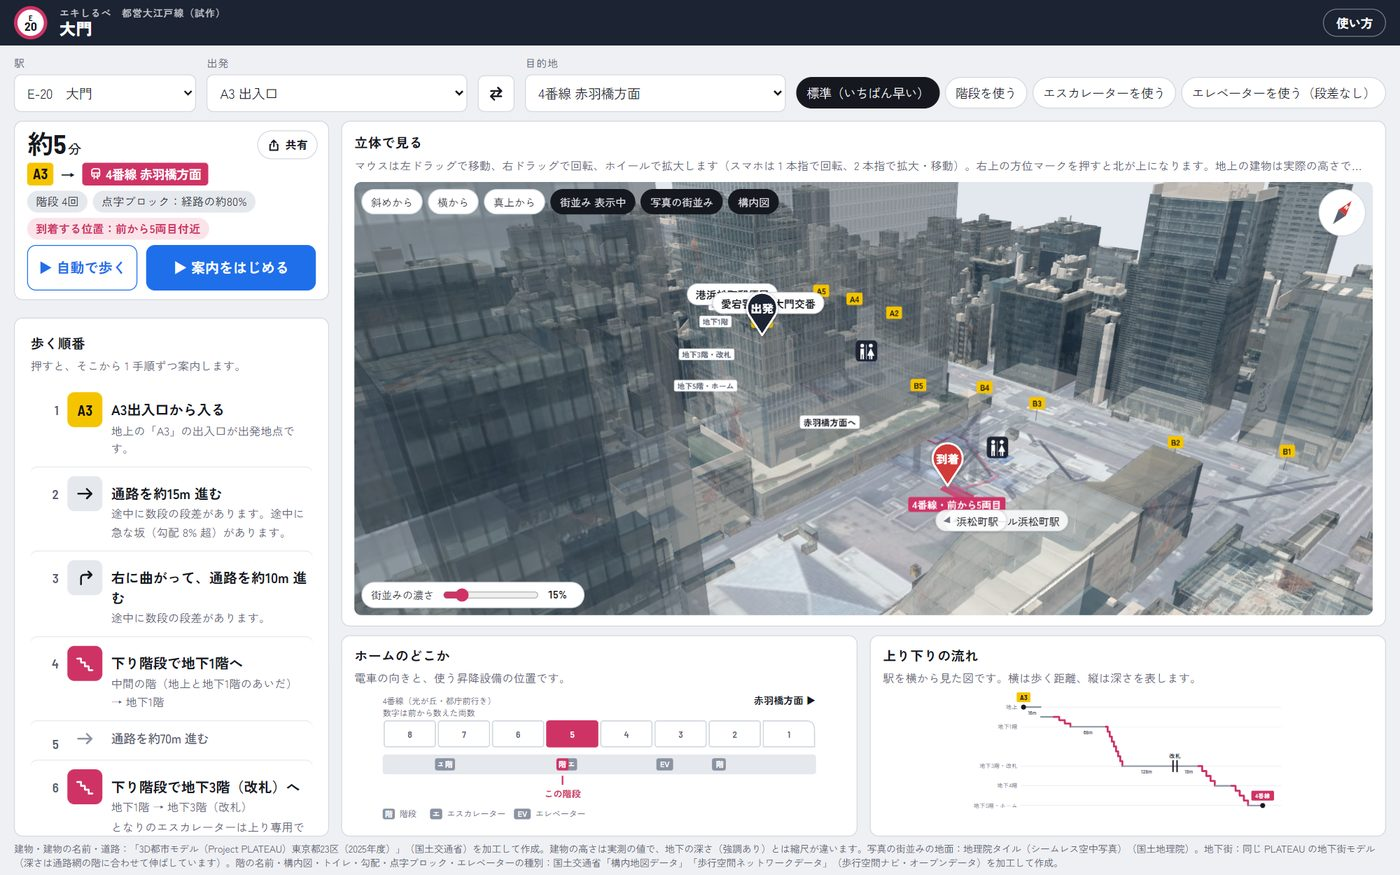
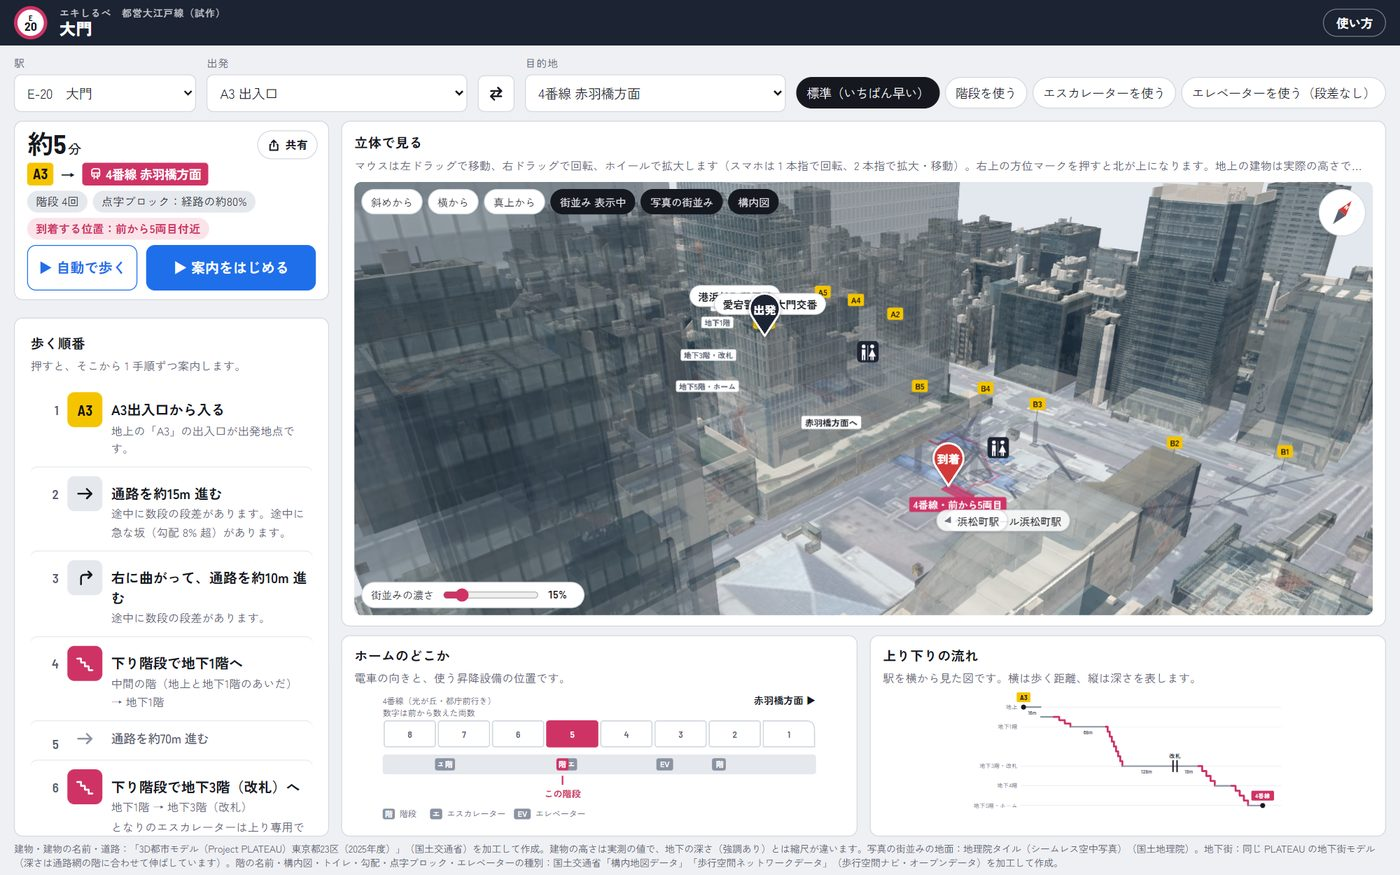
図は構内図で描く（床の上の通路は線を描かない）

diff --git a/index.html b/index.html
@@ -1723,7 +1723,8 @@ var View3D = (function () {
   // 種類ごとにまとめて 1 つの面と輪郭の線にする。手順を選ぶと、ほかの階の床は通路網と同じく薄くなる（userData.lv）
   function addSpaces(list) {
     var cWalk = css('--walk'), cMuted = css('--muted'), cSel = css('--sel');
-    var STYLE = { w: [cWalk, 0.13], wt: [cSel, 0.12], s: [cMuted, 0.32], e: [cMuted, 0.32], v: [cMuted, 0.4], r: [cMuted, 0.25], t: [cSel, 0.28] };
+    // 通路網の線の代わりに床の形で見せるので、通路は少し濃く（2026-10-09。前は 0.13）
+    var STYLE = { w: [cWalk, 0.24], wt: [cSel, 0.22], s: [cMuted, 0.38], e: [cMuted, 0.38], v: [cMuted, 0.45], r: [cMuted, 0.3], t: [cSel, 0.32] };
     var fills = {}, lines = {};
     list.forEach(function (sp) {
       var lv = sp[0], kind = sp[1] === 'w' && sp[2] ? 'wt' : sp[1], y = levelY(lv) - 0.35, key = lv + '|' + kind;
@@ -1744,8 +1745,8 @@ var View3D = (function () {
     });
     Object.keys(lines).forEach(function (lv) {
       var geo = new THREE.BufferGeometry(); geo.setAttribute('position', new THREE.Float32BufferAttribute(lines[lv], 3));
-      var m = new THREE.LineSegments(geo, new THREE.LineBasicMaterial({ color: cMuted, transparent: true, opacity: 0.35, depthWrite: false }));
-      m.userData.base = 0.35; m.userData.lv = [Number(lv), Number(lv)]; netMeshes.push(m); scene.add(m);
+      var m = new THREE.LineSegments(geo, new THREE.LineBasicMaterial({ color: cMuted, transparent: true, opacity: 0.5, depthWrite: false }));
+      m.userData.base = 0.5; m.userData.lv = [Number(lv), Number(lv)]; netMeshes.push(m); scene.add(m);
     });
   }
   function setSpaces(on) {
@@ -1967,6 +1968,30 @@ var View3D = (function () {
     });
 
     // 通路網（データ全体）
+    // 構内図を表示しているときは、構内図の床の上にある平らな通路は線を描かない（床の形で見せる）。階段・エスカレーター・エレベーターの線は
+    // 階と階のつながりなので残し、床の無い区域（出入口の外・構内図に無い通路）は線で補う（2026-10-09 利用者「その方針で進めて」:
+    // GTFS-Pathways は経路と手順に使い、図は構内図で描く）
+    var mapPolys = showSpaces && window.SPACES && SPACES[st.id] ? SPACES[st.id] : null;
+    function onMap(x, y, lv) {
+      return mapPolys.some(function (p) {
+        if (Math.abs(p[0] - lv) > 0.01) return false;
+        var inside = function (r) {
+          var c = false;
+          for (var i = 0, j = r.length / 2 - 1; i < r.length / 2; j = i++) {
+            var xi = r[2 * i], yi = r[2 * i + 1], xj = r[2 * j], yj = r[2 * j + 1];
+            if ((yi > y) !== (yj > y) && x < (xj - xi) * (y - yi) / (yj - yi) + xi) c = !c;
+          }
+          return c;
+        };
+        return inside(p[3]) && !p.slice(4).some(inside);
+      });
+    }
+    function linkOnMap(l) {
+      var A = st.nodes[l[0]], B = st.nodes[l[1]];
+      if (Math.abs(A[2] - B[2]) > 0.01) return false;
+      for (var t = 0; t <= 1.0001; t += 0.25) if (!onMap(A[0] + (B[0] - A[0]) * t, A[1] + (B[1] - A[1]) * t, A[2])) return false;
+      return true;
+    }
     var pass = {}, vert = {}, shafts = [];
     st.links.forEach(function (l) {
       var a = V(st, l[0]), b = V(st, l[1]);
@@ -1975,6 +2000,7 @@ var View3D = (function () {
       if (l[2] === 5 && Math.abs(a.y - b.y) > 0.1) { shafts.push([a, b, Math.min(za, zb), Math.max(za, zb)]); return; }
       if (hl < 0.3) return;
       var isV = (l[2] === 2 || l[2] === 4) && Math.abs(a.y - b.y) > 0.1;
+      if (!isV && mapPolys && linkOnMap(l)) return;
       if (isV) {
         var rv = routeVert[l[0] + '-' + l[1]];
         if (rv) { a = rv[0]; b = rv[1]; } else easeLink(a, b, l[0], l[1]);

diff --git a/manual.html b/manual.html
@@ -131,7 +131,7 @@ a { color: var(--sel); }
     <li>案内中は、写真の建物も航空写真も消します。</li>
   </ul>
   <h3>構内図</h3>
-  <p>大江戸線の 12 駅で、国土交通省の<b>構内地図データ</b>から、通路・コンコース・階段・エスカレーター・エレベーター・スロープ・トイレの<b>床の形</b>を、階ごとにその高さへ薄く描きます。改札の内側の通路は青みを付けています。業務用の部屋など一般の人が入れない所は描きません。手順を選ぶと、ほかの階の床は薄くなります。「<b>構内図</b>」ボタンで表示・非表示を切り替えられます（初めは表示。押した状態はこの端末に覚えます）。</p>
+  <p>大江戸線の 12 駅で、国土交通省の<b>構内地図データ</b>から、通路・コンコース・階段・エスカレーター・エレベーター・スロープ・トイレの<b>床の形</b>を、階ごとにその高さへ薄く描きます。改札の内側の通路は青みを付けています。業務用の部屋など一般の人が入れない所は描きません。構内図を表示しているときは、構内図の床の上にある平らな通路は灰色の線を描かず、床の形で見せます（階段・エスカレーター・エレベーターの線と、構内図に床の無い所の通路は線のまま）。階段・エスカレーターは、構内図の範囲の長さで描きます。手順を選ぶと、ほかの階の床は薄くなります。「<b>構内図</b>」ボタンで表示・非表示を切り替えられます（初めは表示。押した状態はこの端末に覚えます）。</p>
   <h3>トイレ・坂・点字ブロック・エレベーター</h3>
   <ul>
     <li>立体図に<b>トイレ</b>のマーク（男女の絵）を、その階の床に立てます。経路の通路のそば（10 m 以内）に、いま歩いている側（改札の内か外か）と同じトイレがあれば、手順に「そばにトイレがあります（改札内）」、要約に「トイレ：経路のそば」と出します。</li>
